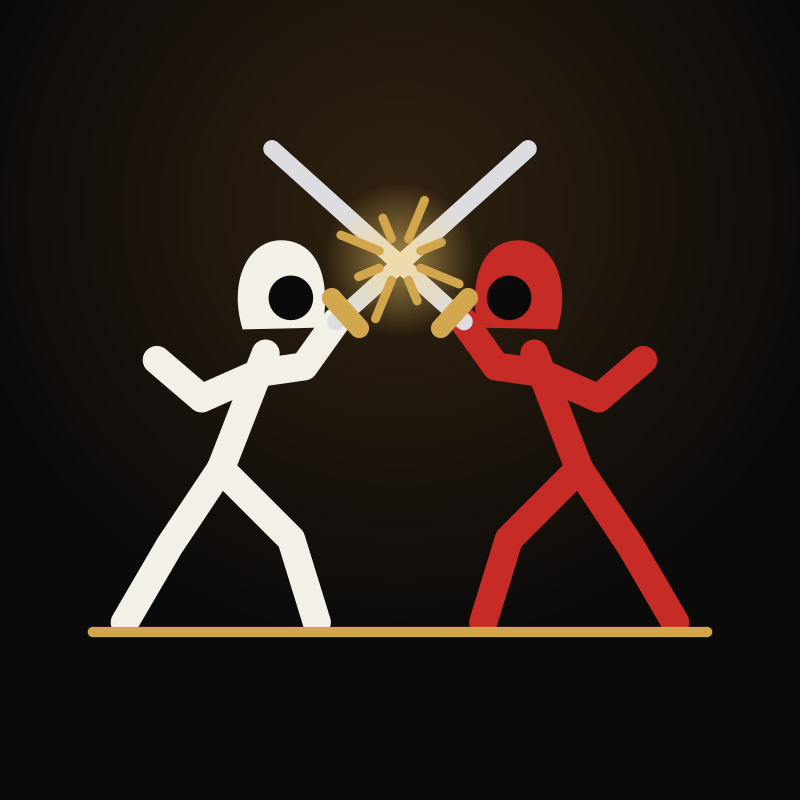
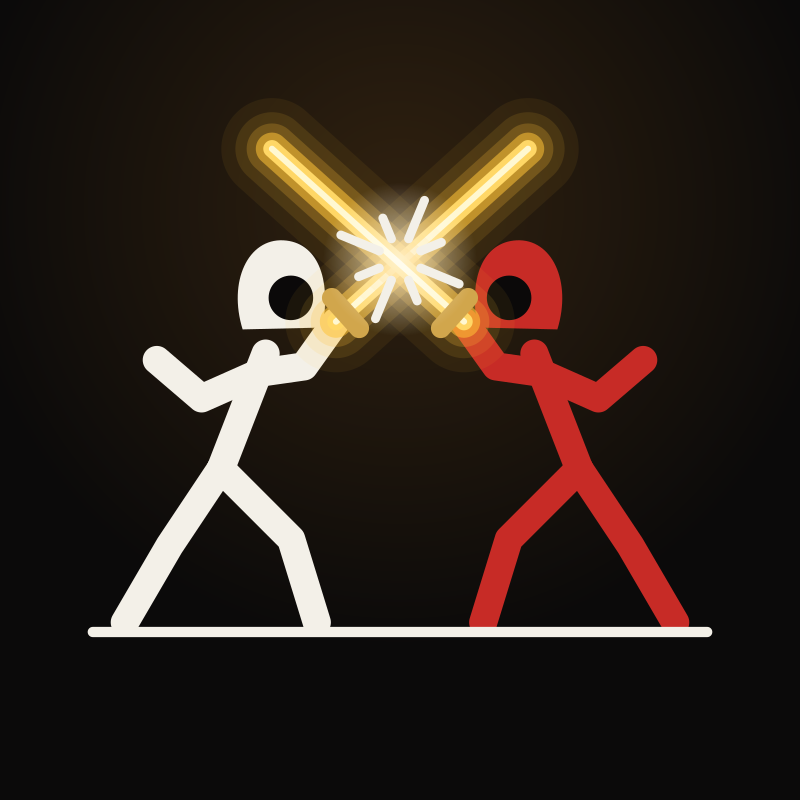
Stickman: perfil D com espadas douradas néon, faísca e chão brancos
Claude-Session: https://claude.ai/code/session_01BxdGqyWTbCxjwhaDPJNNdc

Changed region(s): [[0.2812, 0.125, 0.7188, 0.4688], [0.0938, 0.7812, 0.9062, 0.8125]]

diff --git a/stickman/branding/make_branding.py b/stickman/branding/make_branding.py
@@ -254,11 +254,22 @@ def fencer(ctx, S, col, lw):
             ctx.line_to(*q)
         ctx.stroke()
     hood_head(ctx, *P(0.315, 0.30), S * 0.058, col)
-    # espada: lâmina prateada + guarda dourada
+    # espada: lâmina dourada néon (halo em camadas + núcleo claro) + guarda dourada
     hx, hy = P(0.40, 0.34)
     tx, ty = P(0.70, 0.07)
+    for wmul, a in ((3.6, 0.07), (2.6, 0.12), (1.8, 0.22), (1.15, 0.55)):
+        ctx.set_line_width(lw * wmul)
+        ctx.set_source_rgba(1.0, 0.76, 0.22, a)
+        ctx.move_to(hx, hy)
+        ctx.line_to(tx, ty)
+        ctx.stroke()
     ctx.set_line_width(lw * 0.62)
-    ctx.set_source_rgb(0.86, 0.86, 0.88)
+    ctx.set_source_rgb(1.0, 0.84, 0.40)
+    ctx.move_to(hx, hy)
+    ctx.line_to(tx, ty)
+    ctx.stroke()
+    ctx.set_line_width(lw * 0.22)
+    ctx.set_source_rgb(1.0, 0.97, 0.82)
     ctx.move_to(hx, hy)
     ctx.line_to(tx, ty)
     ctx.stroke()
@@ -274,7 +285,7 @@ def fencer(ctx, S, col, lw):
 
 
 def profile_d(ctx, S=800):
-    """Duelo de espadas: branco vs vermelho, lâminas cruzadas com faísca dourada."""
+    """Duelo de espadas: branco vs vermelho, lâminas douradas néon cruzadas com faísca branca."""
     bg(ctx, S, S, glow=(S / 2, S * 0.26), glow_r=S * 0.55, glow_col=(0.19, 0.13, 0.06))
     lw = S * 0.044
     k = 0.80                                   # encolher tudo para caber no círculo
@@ -291,12 +302,12 @@ def profile_d(ctx, S=800):
     # faísca no cruzamento das lâminas
     cx, cy = S * 0.5, S * 0.243
     g = cairo.RadialGradient(cx, cy, 0, cx, cy, S * 0.12)
-    g.add_color_stop_rgba(0, 1, 0.85, 0.45, 0.55)
-    g.add_color_stop_rgba(1, 1, 0.85, 0.45, 0)
+    g.add_color_stop_rgba(0, 1, 1, 1, 0.65)
+    g.add_color_stop_rgba(1, 1, 1, 1, 0)
     ctx.set_source(g)
     ctx.arc(cx, cy, S * 0.12, 0, 2 * math.pi)
     ctx.fill()
-    rgb(ctx, GOLD)
+    rgb(ctx, WHITE)
     ctx.set_line_cap(cairo.LINE_CAP_ROUND)
     ctx.set_line_width(S * 0.014)
     for i in range(8):
@@ -305,7 +316,8 @@ def profile_d(ctx, S=800):
         ctx.move_to(cx + r1 * math.cos(a), cy + r1 * math.sin(a))
         ctx.line_to(cx + r2 * math.cos(a), cy + r2 * math.sin(a))
         ctx.stroke()
-    # chão dourado
+    # chão branco
+    rgb(ctx, WHITE)
     ctx.set_line_width(S * 0.016)
     ctx.move_to(S * 0.02, S * 0.825)
     ctx.line_to(S * 0.98, S * 0.825)
